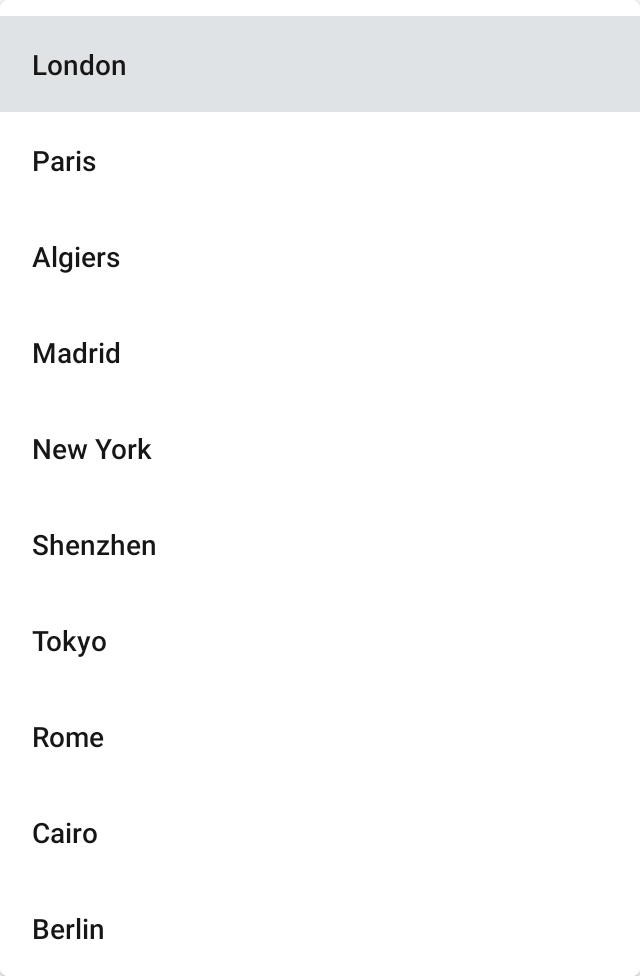
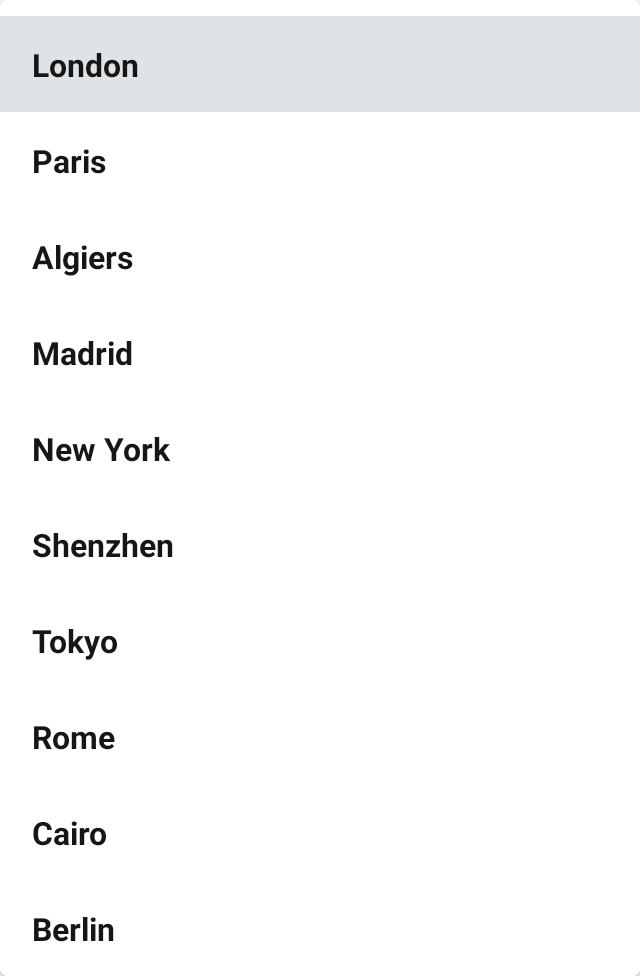
Fix select item text style (#1726)
* Fix select item text style

* Updated snapshots for 'rtl'

* Updated snapshots for 'dm'

* Updated snapshots for 'default'

* Trigger CI

* Updated snapshots for 'rtl'

* Trigger CI

---------

diff --git a/backpack-compose/src/main/kotlin/net/skyscanner/backpack/compose/select/internal/BpkSelectImpl.kt b/backpack-compose/src/main/kotlin/net/skyscanner/backpack/compose/select/internal/BpkSelectImpl.kt
@@ -55,7 +55,7 @@ internal fun BpkSelectImpl(
     onSelectionChange: ((selectedIndex: Int) -> Unit)? = null,
 ) {
     var expanded by remember { mutableStateOf(false) }
-    val selectText = if (selectedIndex != null && selectedIndex > -1 && options.size >= selectedIndex) options[selectedIndex] else ""
+    val selectText = selectedIndex?.let { options.getOrNull(selectedIndex) } ?: ""
 
     ExposedDropdownMenuBox(
         expanded = expanded,
@@ -72,16 +72,27 @@ internal fun BpkSelectImpl(
         )
         ExposedDropdownMenu(
             expanded = if (status != BpkFieldStatus.Disabled) expanded else false,
-            modifier = Modifier.background(BpkTheme.colors.surfaceDefault).fillMaxWidth(),
+            modifier = Modifier
+                .background(BpkTheme.colors.surfaceDefault)
+                .fillMaxWidth(),
             onDismissRequest = { expanded = false },
         ) {
             options.forEachIndexed { index, option ->
-                val itemBackgroundColor = if (index == selectedIndex) BpkTheme.colors.surfaceHighlight else BpkTheme.colors.surfaceDefault
+                val itemBackgroundColor =
+                    if (index == selectedIndex) BpkTheme.colors.surfaceHighlight else BpkTheme.colors.surfaceDefault
                 DropdownMenuItem(
                     modifier = Modifier
                         .height(BpkSpacing.Lg.times(2))
                         .background(itemBackgroundColor),
-                    text = { BpkText(text = option, color = BpkTheme.colors.textPrimary, maxLines = 1, overflow = TextOverflow.Ellipsis) },
+                    text = {
+                        BpkText(
+                            text = option,
+                            color = BpkTheme.colors.textPrimary,
+                            maxLines = 1,
+                            overflow = TextOverflow.Ellipsis,
+                            style = BpkTheme.typography.label1,
+                        )
+                    },
                     onClick = {
                         expanded = false
                         if (index != selectedIndex) {
@@ -104,10 +115,12 @@ internal fun BpkSelectImpl(
     onClick: (() -> Unit)? = null,
 ) {
     BpkTextFieldImpl(
-        modifier = if (status == BpkFieldStatus.Disabled) modifier else modifier.clickable(bounded = true, role = Role.Button) {
-            onClick?.let {
-                it()
-            } },
+        modifier = if (status == BpkFieldStatus.Disabled) modifier else modifier.clickable(
+            bounded = true,
+            role = Role.Button,
+        ) {
+            onClick?.let { it() }
+        },
         value = text,
         onValueChange = {},
         readOnly = true,
